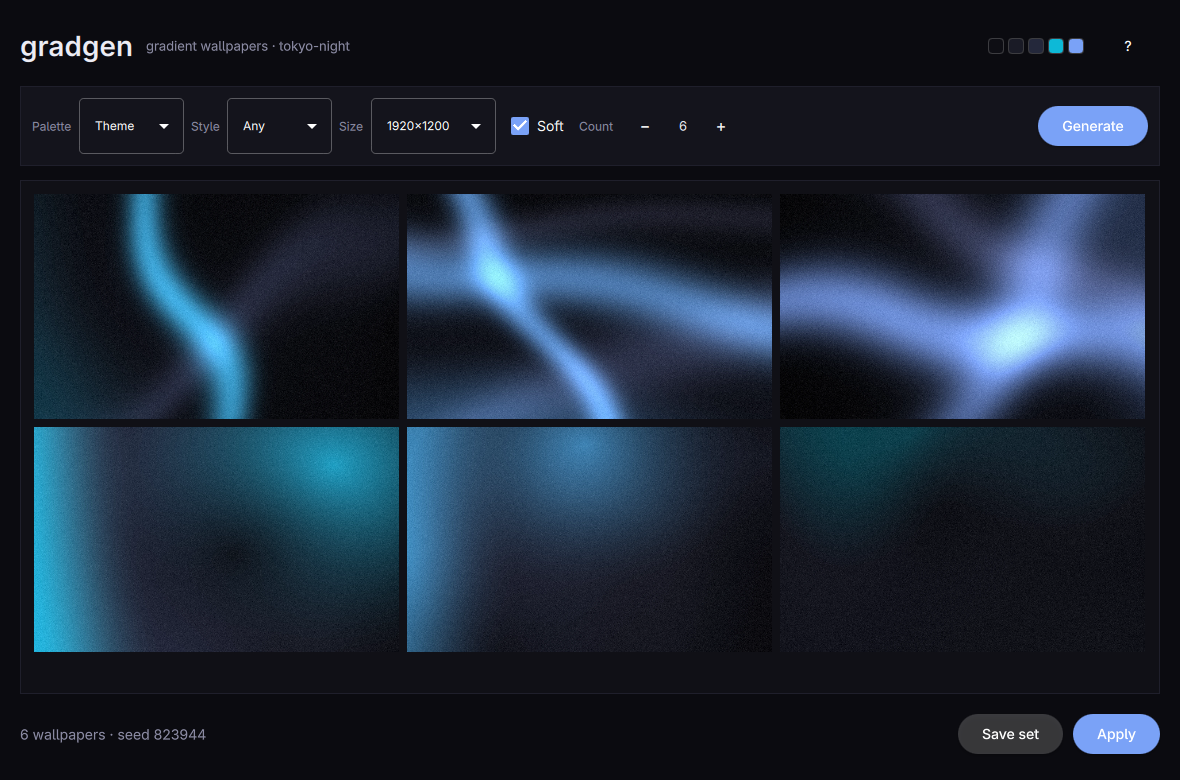
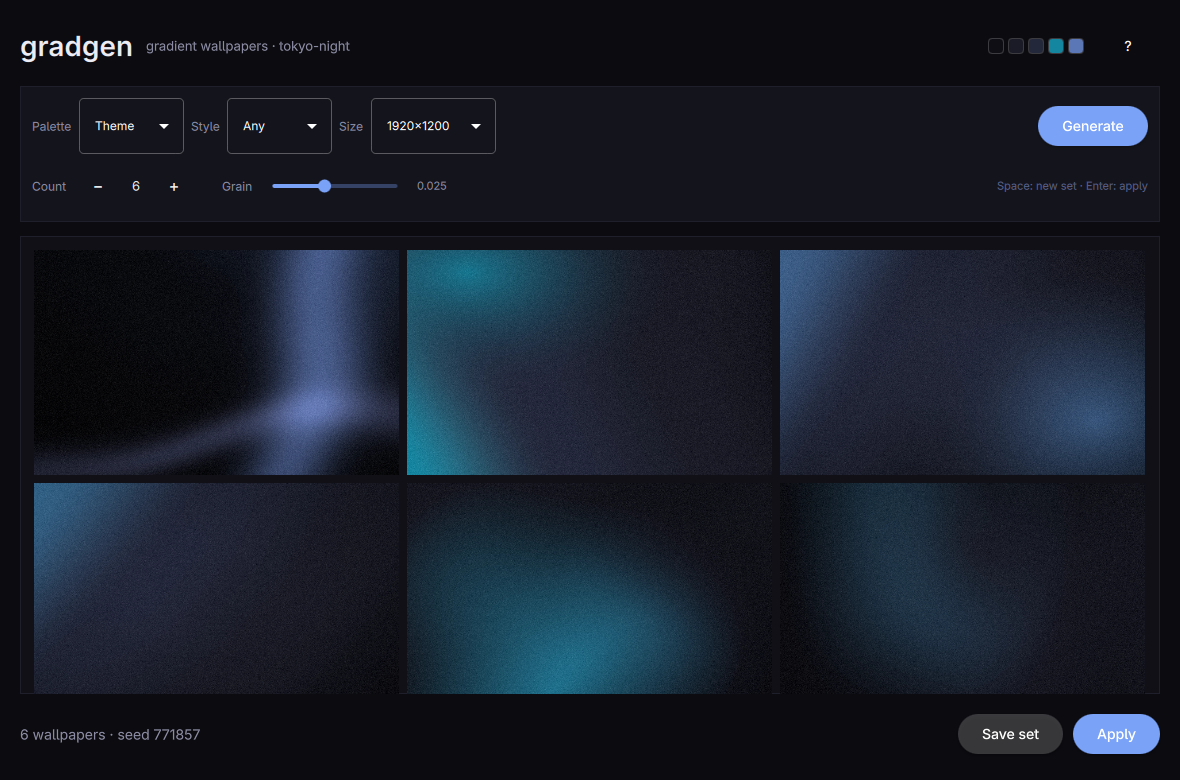
Drop the Soft toggle and keep the muted accents as the default

diff --git a/src/Main.qml b/src/Main.qml
@@ -85,7 +85,7 @@ ApplicationWindow {
                 }
             }
 
-            // One row of controls: palette source, style, size, soft, count.
+            // Controls: palette source, style, size, count, grain.
             Rectangle {
                 Layout.fillWidth: true
                 Layout.preferredHeight: controls.implicitHeight + 24
@@ -135,15 +135,6 @@ ApplicationWindow {
                             model: ["1920×1200", "1920×1080", "3840×2400", "3840×2160"]
                             currentIndex: backend.sizes.indexOf(backend.size)
                             onActivated: backend.size = backend.sizes[index]
-                        }
-
-                        CheckBox {
-                            focusPolicy: Qt.NoFocus
-                            text: qsTr("Soft")
-                            checked: backend.soft
-                            onToggled: backend.soft = checked
-                            ToolTip.visible: hovered
-                            ToolTip.text: qsTr("Calmer accents, pulled toward the background")
                         }
 
                         Item { Layout.fillWidth: true }

diff --git a/tests/gradgen_tests.cpp b/tests/gradgen_tests.cpp
@@ -22,28 +22,26 @@ private slots:
               "bright_cyan = \"#0db9d7\"\n");
 
         Backend backend(dir.path());
-        backend.setSoft(false);
         backend.setSeed(0);
         const QStringList palettes = backend.paletteString().split(';');
         QCOMPARE(palettes.size(), 6);
-        QCOMPARE(palettes.first(), QString("#0e0e14,#1a1b26,#24283b,#7aa2f7"));
+        QCOMPARE(palettes.first(), QString("#0e0e14,#1a1b26,#24283b,#5c77b5"));
         QVERIFY(palettes.first() != palettes.last());
 
         // Three base tones plus the two ends of the accent sweep.
         const QStringList swatches = backend.paletteColors();
         QCOMPARE(swatches.size(), 5);
-        QCOMPARE(swatches.last(), QString("#0db9d7"));
+        QCOMPARE(swatches.last(), QString("#1586a0"));
     }
 
     void paletteFallsBackWithoutATheme()
     {
         QTemporaryDir dir;
         Backend backend(dir.path());
-        backend.setSoft(false);
         backend.setSeed(0);
         const QStringList palettes = backend.paletteString().split(';');
         QCOMPARE(palettes.size(), backend.count());
-        QCOMPARE(palettes.first(), QString("#13141c,#1a1b26,#24283b,#7aa2f7"));
+        QCOMPARE(palettes.first(), QString("#13141c,#1a1b26,#24283b,#5c77b5"));
     }
 
     void paletteModesUseTheirOwnAccents()
@@ -58,11 +56,10 @@ private slots:
               "bright_yellow = \"#ffff00\"\n");
 
         Backend backend(dir.path());
-        backend.setSoft(false);
         backend.setPaletteMode("warm");
         const QStringList palettes = backend.paletteString().split(';');
-        QCOMPARE(palettes.first(), QString("#101010,#111111,#222222,#ff0000"));
-        QCOMPARE(palettes.last(), QString("#101010,#111111,#222222,#ffff00"));
+        QCOMPARE(palettes.first(), QString("#101010,#111111,#222222,#b20c0c"));
+        QCOMPARE(palettes.last(), QString("#101010,#111111,#222222,#b2b20c"));
         QCOMPARE(backend.paletteMode(), QString("warm"));
     }
 
@@ -105,7 +102,7 @@ private slots:
         QVERIFY(palettes.first() != palettes.last());
     }
 
-    void softPullsTheAccentTowardTheBackground()
+    void accentsAreMutedTowardTheBackground()
     {
         QTemporaryDir dir;
         QDir(dir.path()).mkpath("theme");
@@ -117,11 +114,7 @@ private slots:
 
         Backend backend(dir.path());
         backend.setPaletteMode("warm");
-        backend.setSoft(false);
-        const QString sharp = backend.paletteColors().last();
-        backend.setSoft(true);
-        const QString calm = backend.paletteColors().last();
-        QVERIFY(sharp != calm);
+        QCOMPARE(backend.paletteColors().last(), QString("#b2b20c"));
     }
 
     void grainIsClamped()

diff --git a/src/backend.cpp b/src/backend.cpp
@@ -90,14 +90,6 @@ void Backend::setStyle(const QString &style) {
     emit styleChanged();
 }
 
-void Backend::setSoft(bool soft) {
-    if (soft == m_soft)
-        return;
-    m_soft = soft;
-    emit softChanged();
-    emit paletteChanged();
-}
-
 void Backend::setGrain(double grain) {
     grain = qBound(0.0, grain, 0.1);
     if (qFuzzyCompare(grain, m_grain))
@@ -191,12 +183,11 @@ void Backend::generate() {
         "-o", m_previewDirectory,
     };
     if (m_paletteMode == "surprise") {
-        arguments << "--palette-seed" << QString::number(m_seed) << "--palette-vary" << "--dim";
+        arguments << "--palette-seed" << QString::number(m_seed)
+                  << "--palette-vary" << "--soft" << "--dim";
     } else {
         arguments << "--palette" << paletteString();
     }
-    if (m_soft)
-        arguments << "--soft";
 
     startGeneration(python, arguments);
 }
@@ -383,12 +374,10 @@ QStringList Backend::batchPalettes() const {
         last = get(families[index].last, accent);
     }
 
-    // Soft pulls the accents toward the theme's lighter background, which
-    // lowers contrast and saturation without changing the hue family.
-    if (m_soft) {
-        first = mixedColor(first, lighter, 0.35);
-        last = mixedColor(last, lighter, 0.35);
-    }
+    // Wallpapers sit behind everything, so the accent is pulled toward the
+    // theme's lighter background: still the same hue, lower contrast.
+    first = mixedColor(first, lighter, 0.35);
+    last = mixedColor(last, lighter, 0.35);
 
     // The set sweeps from the first accent to the second, so the six images
     // belong together without being the same colour.

diff --git a/src/backend.h b/src/backend.h
@@ -23,7 +23,6 @@ class Backend : public QObject {
     Q_PROPERTY(QStringList sizes READ sizes CONSTANT)
 
     Q_PROPERTY(QString style READ style WRITE setStyle NOTIFY styleChanged)
-    Q_PROPERTY(bool soft READ soft WRITE setSoft NOTIFY softChanged)
     Q_PROPERTY(double grain READ grain WRITE setGrain NOTIFY grainChanged)
     Q_PROPERTY(QString size READ size WRITE setSize NOTIFY sizeChanged)
     Q_PROPERTY(int count READ count WRITE setCount NOTIFY countChanged)
@@ -46,7 +45,6 @@ public:
     QStringList sizes() const;
 
     QString style() const { return m_style; }
-    bool soft() const { return m_soft; }
     double grain() const { return m_grain; }
     QString size() const { return m_size; }
     int count() const { return m_count; }
@@ -54,7 +52,6 @@ public:
     int seed() const { return m_seed; }
 
     void setStyle(const QString &style);
-    void setSoft(bool soft);
     void setGrain(double grain);
     void setSize(const QString &size);
     void setCount(int count);
@@ -80,7 +77,6 @@ signals:
     void themeNameChanged();
     void lastSeedChanged();
     void styleChanged();
-    void softChanged();
     void grainChanged();
     void sizeChanged();
     void countChanged();
@@ -106,7 +102,6 @@ private:
     QString m_previewDirectory;
 
     QString m_style = "any";
-    bool m_soft = true;
     double m_grain = 0.025;
     QString m_size = "wuxga";
     int m_count = 6;

diff --git a/README.md b/README.md
@@ -42,11 +42,11 @@ the four colours the next set will use.
   palette to the renderer, so it can land outside the theme.
 - The set sweeps from the first accent to the second, so the images vary within
   a family instead of being six copies. The header swatches show both ends.
+- Accents are pulled toward the theme's lighter background on purpose. A
+  wallpaper sits behind everything; full-strength accents glare and fight the
+  bar. There is no soft toggle to get wrong.
 - **Style** — `Any`, `Linear`, `Glow`, `Aurora`, or `Mesh`.
 - **Size** — 1920×1200 (this panel), 1920×1080, 3840×2400, 3840×2160.
-- **Soft** — calmer accents: pulls the highlight toward the theme's lighter
-  background and, in Surprise mode, asks the renderer for closer hues and lower
-  saturation. On by default.
 - **Count** — 3 to 12 candidates per set.
 - **Grain** — film grain (0 to 0.06, default 0.025) that doubles as dither, so
   the ramps do not band. 0 is perfectly smooth and may show bands.
